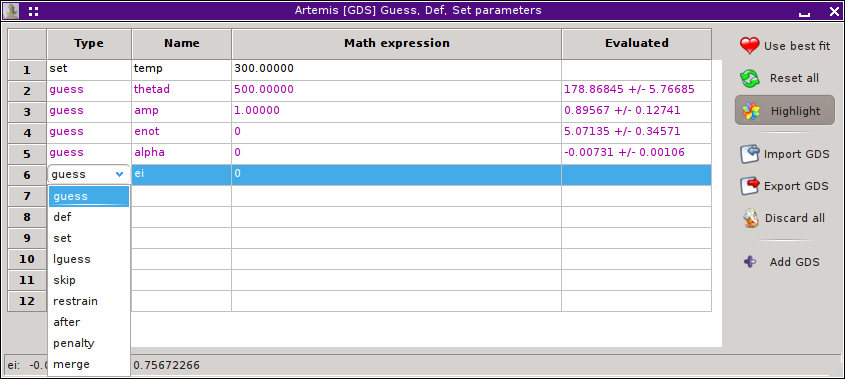
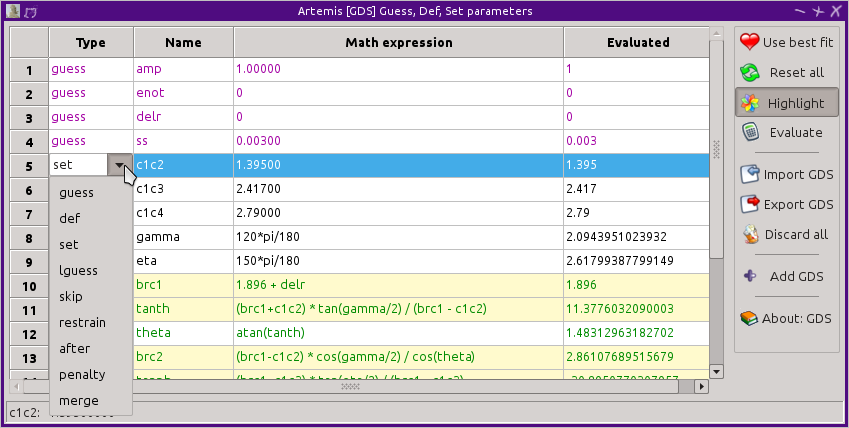
finally ready for 0.9.18

diff --git a/Changes.html b/Changes.html
@@ -7,7 +7,7 @@ lang="en" xml:lang="en">
 <title>Demeter revision history</title>
 <meta http-equiv="Content-Type" content="text/html;charset=iso-8859-1"/>
 <meta name="generator" content="Org-mode"/>
-<meta name="generated" content="2013-08-16 08:41:34 EDT"/>
+<meta name="generated" content="2013-08-27 13:43:17 EDT"/>
 <meta name="author" content="Bruce Ravel"/>
 <meta name="description" content=""/>
 <meta name="keywords" content=""/>
@@ -80,7 +80,7 @@ lang="en" xml:lang="en">
 <ul>
 <li><a href="#sec-1">1 Initial release </a>
 <ul>
-<li><a href="#sec-1.1">1.1 0.9.18 9  August      2013 </a></li>
+<li><a href="#sec-1.1">1.1 0.9.18 24 August      2013 </a></li>
 <li><a href="#sec-1.2">1.2 0.9.17 28 May       2013 </a></li>
 <li><a href="#sec-1.3">1.3 0.9.16 28 March     2013 </a></li>
 <li><a href="#sec-1.4">1.4 0.9.15 21 February  2013 </a></li>
@@ -127,7 +127,7 @@ lang="en" xml:lang="en">
 </div>
 
 <div id="outline-container-1.1" class="outline-3">
-<h3 id="sec-1.1"><span class="section-number-3">1.1</span> 0.9.18 9  August      2013 </h3>
+<h3 id="sec-1.1"><span class="section-number-3">1.1</span> 0.9.18 24 August      2013 </h3>
 <div class="outline-text-3" id="text-1.1">
 
 <ul>
@@ -271,6 +271,12 @@ new pre-fit sanity check to make sure that GDS parameter names only have allowed
 </li>
 <li>
 right click on cards in feff.inp to go directly to the on-line Feff documentation
+</li>
+<li>
+button to evaluate and display GDS parameter without fitting (i.e. "spell-check" your def parameters)
+</li>
+<li>
+can now stretch the Data window and adjust the size of the path list
 
 </li>
 </ul>
@@ -3304,7 +3310,7 @@ Andreas Voegelin
 <p class="author"> Author: Bruce Ravel
 <a href="mailto:bravel AT bnl DOT gov">&lt;bravel AT bnl DOT gov&gt;</a>
 </p>
-<p class="date"> Date: 2013-08-16 08:41:34 EDT</p>
+<p class="date"> Date: 2013-08-27 13:43:17 EDT</p>
 <p class="creator">HTML generated by org-mode 6.33x in emacs 23</p>
 </div>
 </div>

diff --git a/artug/gds.html b/artug/gds.html
@@ -102,7 +102,7 @@ parameter types can be chosen.
 </p>
 
 
-<div class=figure style="max-width: 845px; min-width: 7em;">
+<div class=figure style="max-width: 849px; min-width: 7em;">
 <a name=gds>
 <img src=../images/gds.png width=100%>
 </a>
@@ -306,7 +306,23 @@ values.
 This button prompts you for a string.  All parameters with names or
 math expressions matching the string provided will be highlighted with
 a yellow background.  This feature is particularly useful in large
-fitting models with many parameters.
+fitting models with many parameters.  In the image above, you can see
+that all parameters matching &ldquo;brc1&rdquo; have
+been highlighted.  The string to match can actually be any valid Perl
+regular expression.
+  <br />
+  <br />
+</dd>
+<dt>
+  Evaluate
+</dt>
+<dd>
+Clicking this button will evaluate all parameters and insert their
+evaluations into the fourth column of the grid.  This is used to 
+&ldquo;spell-check&rdquo; your math expressions for
+<span style="color:#008b00; background-color:white">def</span> and other parameters.  In the image above, this button has
+been clicked and the evaluations have been inserted into the fourth
+column. 
   <br />
   <br />
 </dd>

diff --git a/index.html b/index.html
@@ -25,7 +25,7 @@
         <ul>
 
           <li class="download"><a class="buttons" href="http://demeter4xas.s3-website-us-east-1.amazonaws.com/Demeter_Installer_for_Windows.exe">Installer 0.9.13.1</a></li>
-	  <li class="download"><a class="buttons" href="http://demeter4xas.s3-website-us-east-1.amazonaws.com/Demeter_Updater_for_Windows.exe">Updater 0.9.17</a></li>
+	  <li class="download"><a class="buttons" href="http://demeter4xas.s3-website-us-east-1.amazonaws.com/Demeter_Updater_for_Windows.exe">Updater 0.9.18</a></li>
 	  <li class="download"><a class="buttons" href="http://demeter4xas.s3-website-us-east-1.amazonaws.com/Demeter_HTML_Documentation.exe">Documentation</a></li>
 	</ul></p>
 
@@ -47,7 +47,7 @@
 
 	Demeter is:
 	<ul>
-	  <li>currently at version <strong>0.9.17</strong></li>
+	  <li>currently at version <strong>0.9.18</strong></li>
 	  <li>a set of <a href="http://www.perl.org">perl</a> modules and
 	    related files</li>
 	  <li>a programming tool -- it is the thing from which
